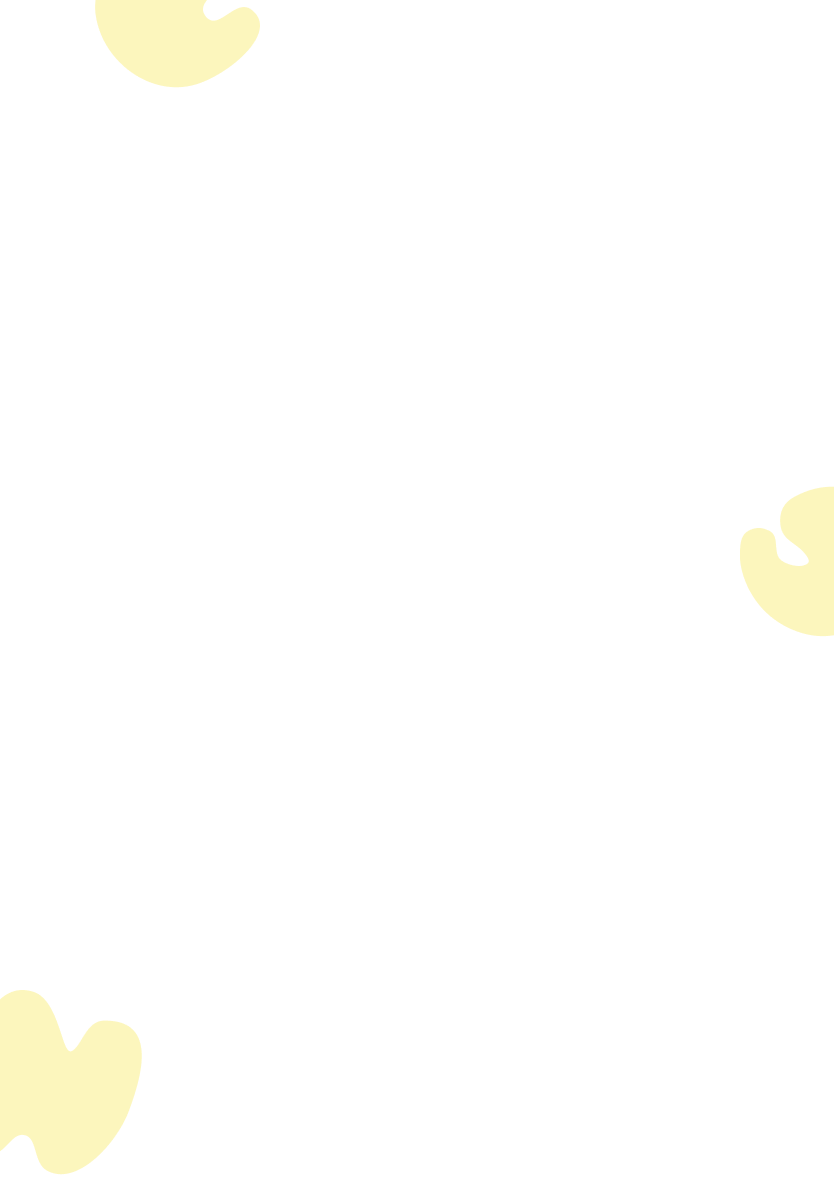
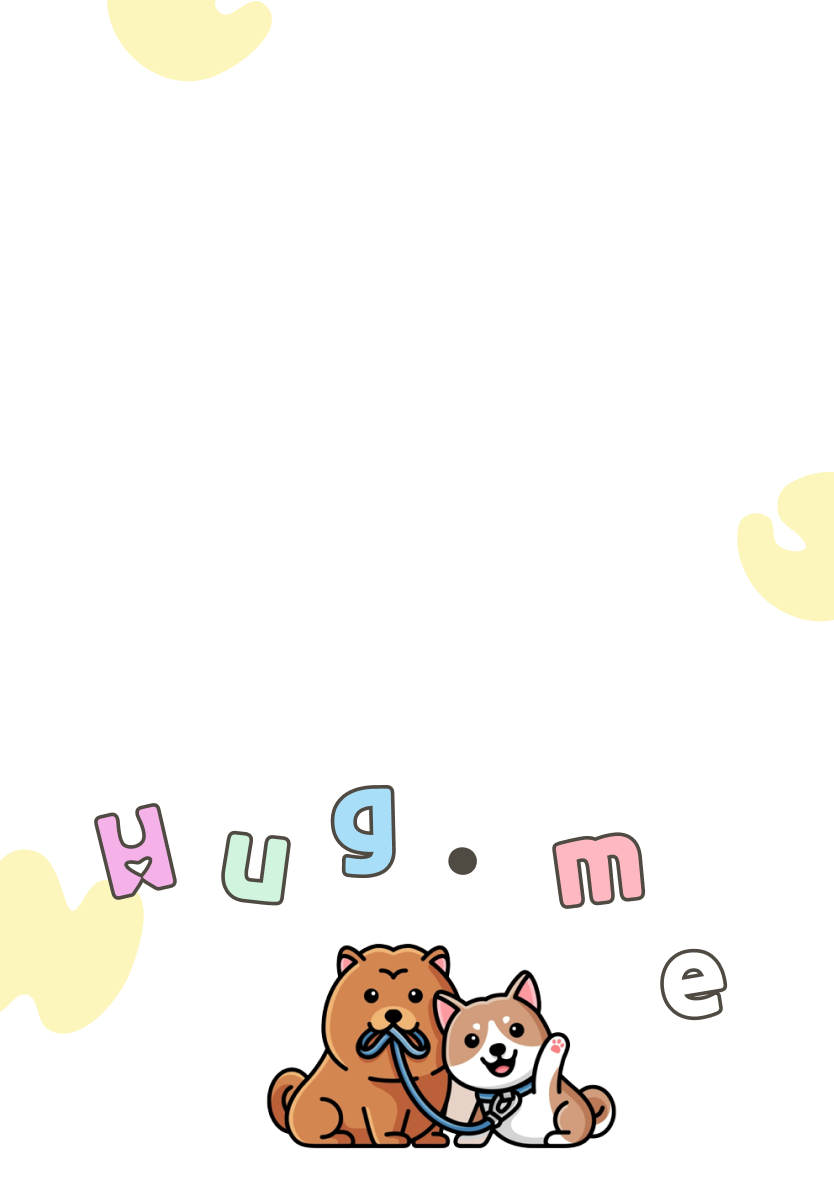
estilos tablet actualizado

diff --git a/src/styles/global.css b/src/styles/global.css
@@ -11,9 +11,9 @@ body {
       position: absolute;
       top: 0;
    }
-  /* body{
-      background-image: url('../imgs/mobile-logIn.png');
-   }*/
+   .backgroundTablet{
+      display: none;
+   }
    .main-form {
       display: flex;
       flex-direction: column;
@@ -506,20 +506,21 @@ body {
 /*Estilos para tablet*/
 @media (min-device-width:391px)
 and (max-device-width: 834px){
- /*  body{
-      background-image: url('../imgs/tablet-login.png');
-   }*/
    .background {
-      position: absolute;
-      top: 0;
       display: none;
+   }
+   .backgroundTablet{
+      top: 0;
+      position: absolute;
+      display: block;
    }
    .main-form{
       display: flex;
       flex-direction: column;
       align-items: center;
       justify-content: center;
-      margin: 122px 54px ;   
+      margin: 122px 54px ;
+      position: absolute;   
    }
    .main-form h1{
       width: 726px;
@@ -542,7 +543,7 @@ and (max-device-width: 834px){
       color: #343A40;
    }
    .form{
-      margin: 43px 0;
+      margin: 43px 0 200px;
       display: flex;
       flex-direction: column;
       gap: 70px;
@@ -594,7 +595,7 @@ and (max-device-width: 834px){
       margin: -50px 0 -50px 0;
    }
    .form-button{
-      margin: 84px 0 0 0; /*a prueba margen*/
+      margin: 84px 0 0 0;
       width: 726px;
       height: 77px;
       background: #F5B2E8;
@@ -612,6 +613,9 @@ and (max-device-width: 834px){
       letter-spacing: 0.641244px;
       color: #FFFFFF;
    }
+   .create-account{
+      margin: 0;
+   }
    .form-link{
       margin-top: -37px;
       text-align: end;
@@ -623,6 +627,40 @@ and (max-device-width: 834px){
       line-height: 29px;
       color: #343A40;
    }
+   .container-authentication{
+      display: flex;
+      flex-direction: column;
+
+      justify-content: center;     
+      align-items: center;
+      font-family: 'SF Pro Rounded';
+      color: #343A40;
+      font-style: normal;
+      font-weight: 300;
+      font-size: 24px;
+      line-height: 29px;
+   }
+   .container-authentication p{
+      margin-top: 0;
+      text-align: center;
+   }
+   .button-authentication{
+      background-color: white;
+      width: 44px;
+      height: 44px;
+      border: none;
+      display: flex;
+      justify-content: center;
+      align-items: center;
+   }
+   .button-authentication img{
+      width: 44px;
+      height: 44px;
+
+   };
+
+
+
    /*css crear home*/
    .home, .infornation-view {
       margin: 0 54px;
@@ -720,6 +758,7 @@ and (max-device-width: 834px){
    .publication-card {
       display: flex;
       flex-direction: column-reverse;
+      justify-content: space-between;
    }
    .publication-card img {
       width: 220px;
@@ -755,6 +794,7 @@ and (max-device-width: 834px){
       justify-content: center;
       background: #FCF6BD;
       bottom: 0;
+      border-color: yellow;
    }
    .container__footer-info{
       display: flex;

diff --git a/src/views/signUp.js b/src/views/signUp.js
@@ -5,6 +5,7 @@ import { createUser, emailVerification, saveUser } from '../lib/firebase.js';
 function signUp() {
   const signup = `
     <img class="background" src="./imgs/mobile-createA.png" />
+    <img class="backgroundTablet" src="./imgs/tablet-createA.png"/>
     <main class="main-form">
         <h1>Crear cuenta</h1>
         <p>Por favor llene los datos antes de continuar.</p>

diff --git a/src/views/signIn.js b/src/views/signIn.js
@@ -7,6 +7,7 @@ import {
 function signIn() {
   const login = `
   <img class="background" src="./imgs/mobile-logIn.png"/>
+  <img class="backgroundTablet" src="./imgs/tablet-login.png"/>
   <main class="main-form">
     <h1>Iniciar sesión</h1>
     <p>Bienvenidx, gracias por visitarnos nuevamente.</p>

diff --git a/src/views/home.js b/src/views/home.js
@@ -38,6 +38,8 @@ function Home() {
     </footer>
     `;
 
+    
+
   const element = document.querySelector('body');
   element.innerHTML = home;
 
